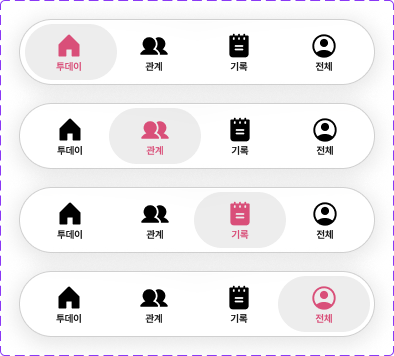
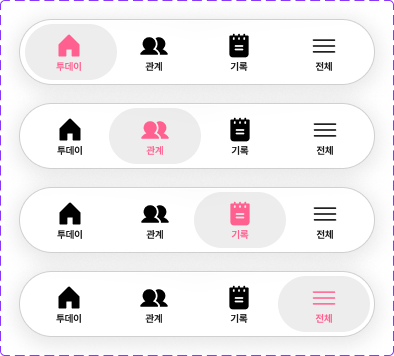
docs: 새 Figma 파일 기준으로 색상·전체 탭 아이콘 반영
- 브랜드/버튼 색 #FF6090, 출석 패널 #FFB2CA로 변경 (brand·cta·attendancePanel)
- 하단 탭 선택(분홍) 아이콘과 seal-check 아이콘을 새 색으로 교체
- 탭 바 "전체" 아이콘을 Iconsax menu로 교체 (마스크 SVG를 28×28 한 파일로 합침)
- 출석 패널에서 불꽃 아이콘 제거 (fire.svg, fireIconSize)
- 감정 그래프 카드 y 614 (신호 카드와 간격 22)
- docs/design 스크린샷 갱신, Figma 링크를 새 파일로 변경
- 아이콘 출처(Phosphor Icons, Iconsax)와 확인이 필요한 항목 문서화

diff --git a/lib/app/theme/app_assets.dart b/lib/app/theme/app_assets.dart
@@ -3,7 +3,7 @@
 abstract final class AppAssets {
   static const _icons = 'assets/icons/ui';
 
-  // 하단 탭 (기본 / 선택[분홍])
+  // 하단 탭 (기본 / 선택[분홍]). 투데이·관계·기록은 Phosphor Icons, 전체는 Iconsax(menu).
   static const tabHome = '$_icons/tab_home.svg';
   static const tabHomeActive = '$_icons/tab_home_active.svg';
   static const tabRelations = '$_icons/tab_relations.svg';
@@ -21,7 +21,6 @@ abstract final class AppAssets {
   static const forum = '$_icons/forum.svg';
   static const bell = '$_icons/bell.svg';
   static const sealCheck = '$_icons/seal_check.svg';
-  static const fire = '$_icons/fire.svg';
 
   // 화살표: 쓰이는 자리마다 크기·색이 달라 파일이 나뉘어 있다.
   static const chevronSignal = '$_icons/chevron_signal.svg';
@@ -55,7 +54,6 @@ abstract final class AppAssets {
     forum,
     bell,
     sealCheck,
-    fire,
     chevronSignal,
     chevronGraph,
     chevronSeeAll,

diff --git a/lib/app/theme/app_colors.dart b/lib/app/theme/app_colors.dart
@@ -76,8 +76,8 @@ class AppColors extends ThemeExtension<AppColors> {
 
   /// Figma 홈 화면에서 읽은 라이트 팔레트.
   static const light = AppColors(
-    brand: Color(0xFFD94F79),
-    cta: Color(0xFFCF3F6B),
+    brand: Color(0xFFFF6090),
+    cta: Color(0xFFFF6090),
     onCta: Color(0xFFFFFFFF),
     background: Color(0xFFFFFFFF),
     backgroundGradientTop: Color(0xCCD94F79), // rgba(217,79,121,0.8)
@@ -94,7 +94,7 @@ class AppColors extends ThemeExtension<AppColors> {
     avatar: Color(0xFFD9D9D9),
     iconTile: Color(0x80D9D9D9), // rgba(217,217,217,0.5)
     gridLine: Color(0x80A0A7B4), // rgba(160,167,180,0.5)
-    attendancePanel: Color(0xFFCF9FAE),
+    attendancePanel: Color(0xFFFFB2CA),
     onAttendancePanel: Color(0xCCFFFFFF), // rgba(255,255,255,0.8)
     bellButton: Color(0x1A999999), // rgba(153,153,153,0.1)
     navFill: Color(0xB3FFFFFF), // rgba(255,255,255,0.7)

diff --git a/test/app/theme/app_theme_test.dart b/test/app/theme/app_theme_test.dart
@@ -18,11 +18,11 @@ void main() {
     const c = AppColors.light;
 
     test('주요 색', () {
-      expect(c.brand, const Color(0xFFD94F79));
-      expect(c.cta, const Color(0xFFCF3F6B));
+      expect(c.brand, const Color(0xFFFF6090));
+      expect(c.cta, const Color(0xFFFF6090));
       expect(c.cardPink, const Color(0xFFFEDAE5));
       expect(c.cardBorder, const Color(0xFFEEE6E9));
-      expect(c.attendancePanel, const Color(0xFFCF9FAE));
+      expect(c.attendancePanel, const Color(0xFFFFB2CA));
     });
 
     test('반투명 색은 Figma rgba 값과 같다', () {
@@ -232,7 +232,7 @@ void main() {
           ),
         ),
       );
-      expect(read.brand, const Color(0xFFD94F79));
+      expect(read.brand, const Color(0xFFFF6090));
     });
   });
 

diff --git a/lib/app/theme/app_spacing.dart b/lib/app/theme/app_spacing.dart
@@ -49,7 +49,7 @@ abstract final class HomeLayout {
   static const recordCardY = 237.0;
   static const signalTitleY = 444.0;
   static const signalCardY = 488.0;
-  static const graphCardY = 613.0;
+  static const graphCardY = 614.0;
   static const actionTitleY = 821.0;
   static const actionCardY1 = 865.0;
   static const actionCardY2 = 967.0;
@@ -90,5 +90,4 @@ abstract final class AttendanceLayout {
   static const pillHeight = 13.0;
   static const pillGap = 5.0;
   static const pillCount = 6;
-  static const fireIconSize = 48.0;
 }

diff --git a/docs/TECH_STACK.md b/docs/TECH_STACK.md
@@ -10,7 +10,7 @@
 | 앱 | Flutter (stable 3.47.4), Dart `^3.12.0` | CI와 같은 버전 사용 |
 | 대상 OS | **iOS와 Android 둘 다** | 둘 다 잘 동작해야 합니다 (SPEC 9.1의 "Android 우선"보다 이 항목이 우선). 플랫폼 설정(Info.plist, AndroidManifest)은 항상 양쪽 다 처리 |
 | 폰트 | Pretendard (400·500·600·700·800) | `assets/fonts/`, 라이선스 SIL OFL 1.1 (`OFL-LICENSE.txt`) |
-| 아이콘 | `flutter_svg` ^2.3.0 + Figma에서 내려받은 SVG | `assets/icons/ui/`, 경로는 `lib/app/theme/app_assets.dart` |
+| 아이콘 | `flutter_svg` ^2.3.0 + Figma에서 내려받은 SVG | `assets/icons/ui/`, 경로는 `lib/app/theme/app_assets.dart`. 원본 라이브러리: 탭 바 투데이·관계·기록 = Phosphor Icons, 전체 = Iconsax (SVG로 받아 사용, 아이콘 패키지는 쓰지 않음) |
 | 디자인 기준 | Figma 홈 화면 (100% 일치 목표) | [DESIGN_SYSTEM.md](./DESIGN_SYSTEM.md), 값은 `lib/app/theme/` 상수만 사용 |
 | 인증 | Supabase Auth, 이메일 + 비밀번호 | 구글 로그인은 미정 (SPEC 11장 7번) |
 | 상태 관리 | `flutter_riverpod` ^3.4.3 | 앱 최상단 `ProviderScope`, 데이터는 Repository를 Provider로 주입 ([FRONTEND.md](./FRONTEND.md)) |
